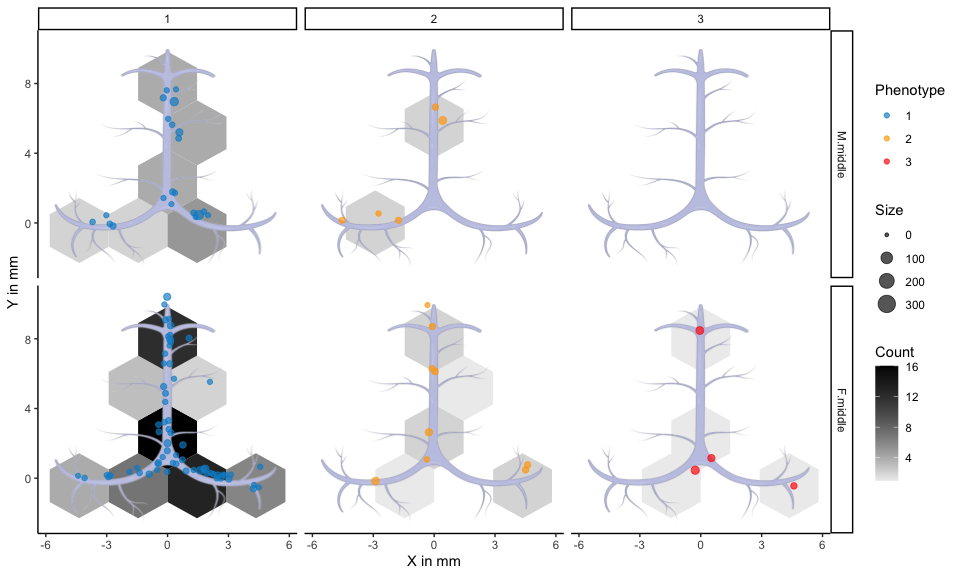
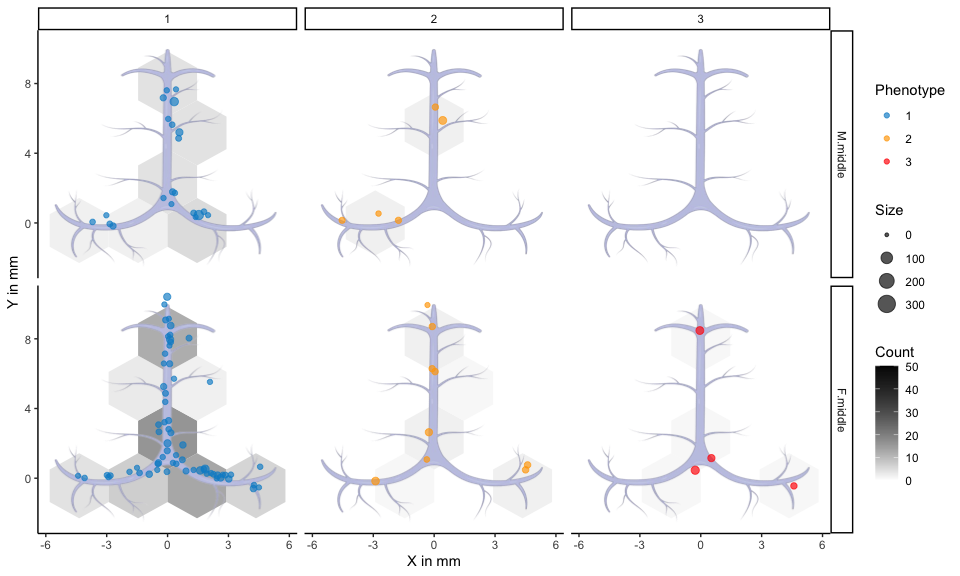
Update reports

diff --git a/reports/Tau_sibling.md b/reports/Tau_sibling.md
@@ -1,0 +1,108 @@
+# Meninges Report
+
+-   [Overview](#overview)
+-   [Exploratory statistics](#exploratory-statistics)
+-   [Distribution of structures](#distribution-of-structures)
+-   [Density of structures](#density-of-structures)
+-   [Distribution and Density of
+    structures](#distribution-and-density-of-structures)
+-   [Distribution by phenotype](#distribution-by-phenotype)
+
+## Overview
+
+In this report we profile the meninges of Tau_sibling mice in terms of
+Tertiary Lymphatic Structures (TLSs). The following chapters provide
+insight to different aspects of the TLSs, such as their location,
+distribution and density.
+
+## Exploratory statistics
+
+The current analysis includes data on 36 lymphatic structures from 5
+mice, belonging to 1 strains, 1 age categories and 2 genders, for a
+total of 2 groups ([Table 1](#tbl-stats)).
+
+<table>
+<caption>Table 1: Basic statistics on the TLSs from mice meninges. Size
+and length are measured in mm, whereas phenotype and sinus location are
+reported in terms of the number of structures per each phenotype or
+sinus location, respectively.</caption>
+<colgroup>
+<col style="width: 4%" />
+<col style="width: 4%" />
+<col style="width: 5%" />
+<col style="width: 11%" />
+<col style="width: 12%" />
+<col style="width: 12%" />
+<col style="width: 19%" />
+<col style="width: 18%" />
+<col style="width: 11%" />
+</colgroup>
+<thead>
+<tr class="header">
+<th style="text-align: left;">Sex</th>
+<th style="text-align: left;">Age</th>
+<th style="text-align: right;">Mice</th>
+<th style="text-align: right;">Structures</th>
+<th style="text-align: right;">AvgDiameter</th>
+<th style="text-align: right;">AvgDistance</th>
+<th style="text-align: left;">Phenotype (1-2-3)</th>
+<th style="text-align: left;">Sinus (0-90-180)</th>
+<th style="text-align: left;">Desc</th>
+</tr>
+</thead>
+<tbody>
+<tr class="odd">
+<td style="text-align: left;">M</td>
+<td style="text-align: left;">old</td>
+<td style="text-align: right;">3</td>
+<td style="text-align: right;">13</td>
+<td style="text-align: right;">12.2</td>
+<td style="text-align: right;">4.3</td>
+<td style="text-align: left;">11-1-1</td>
+<td style="text-align: left;">1-5-7</td>
+<td style="text-align: left;">18+ months</td>
+</tr>
+<tr class="even">
+<td style="text-align: left;">F</td>
+<td style="text-align: left;">old</td>
+<td style="text-align: right;">2</td>
+<td style="text-align: right;">23</td>
+<td style="text-align: right;">10.2</td>
+<td style="text-align: right;">6.4</td>
+<td style="text-align: left;">19-3-1</td>
+<td style="text-align: left;">4-19-0</td>
+<td style="text-align: left;">18+ months</td>
+</tr>
+</tbody>
+</table>
+
+Table 1: Basic statistics on the TLSs from mice meninges. Size and
+length are measured in mm, whereas phenotype and sinus location are
+reported in terms of the number of structures per each phenotype or
+sinus location, respectively.
+
+[Figure 1](#fig-bar) shows the distribution the TLSs distribute in terms
+of their length and size across all tissues.
+
+<img src="plots/Tau_siblingfig-bar-1.png" id="fig-bar"
+alt="Figure 1: Barplots of tertiary lyphatic structures distributed by (A) diameter and (B) distance from confluence in mm." />
+
+## Distribution of structures
+
+<img src="plots/Tau_siblingfig-loc-1.png" id="fig-loc"
+alt="Figure 2: Scatter plot of TLSs around meninges. Each dot represents one structure, sized by dimension, coloured by phenotype and labeled by sample. Each panel corresponds to a mice group based on sex and age category." />
+
+## Density of structures
+
+<img src="plots/Tau_siblingfig-dist-1.png" id="fig-dist"
+alt="Figure 3: 2d Binned plot of tertiary limphatic structures around meninges. Colour indicates number of structures found in each hexagonal cell. Each panel corresponds to a mice group based on sex and age category." />
+
+## Distribution and Density of structures
+
+<img src="plots/Tau_siblingfig-loc-dens-1.png" id="fig-loc-dens"
+alt="Figure 4: Density plot of TLSs around meninges. Each dot represents one structure, sized by dimension, coloured by phenotype. Colour indicates the fraction of structures found in each pixel. Each panel corresponds to a mice group based on sex and age category." />
+
+## Distribution by phenotype
+
+<img src="plots/Tau_siblingfig-dist-pheno-1.png" id="fig-dist-pheno"
+alt="Figure 5: 2d Binned plot of tertiary limphatic structures around meninges by phenotype (1, 2 or 3). Colour indicates number of structures found in each hexagonal cell. Rows correspond to a mice group based on sex and age category, whereas columns represent phenotypes." />
